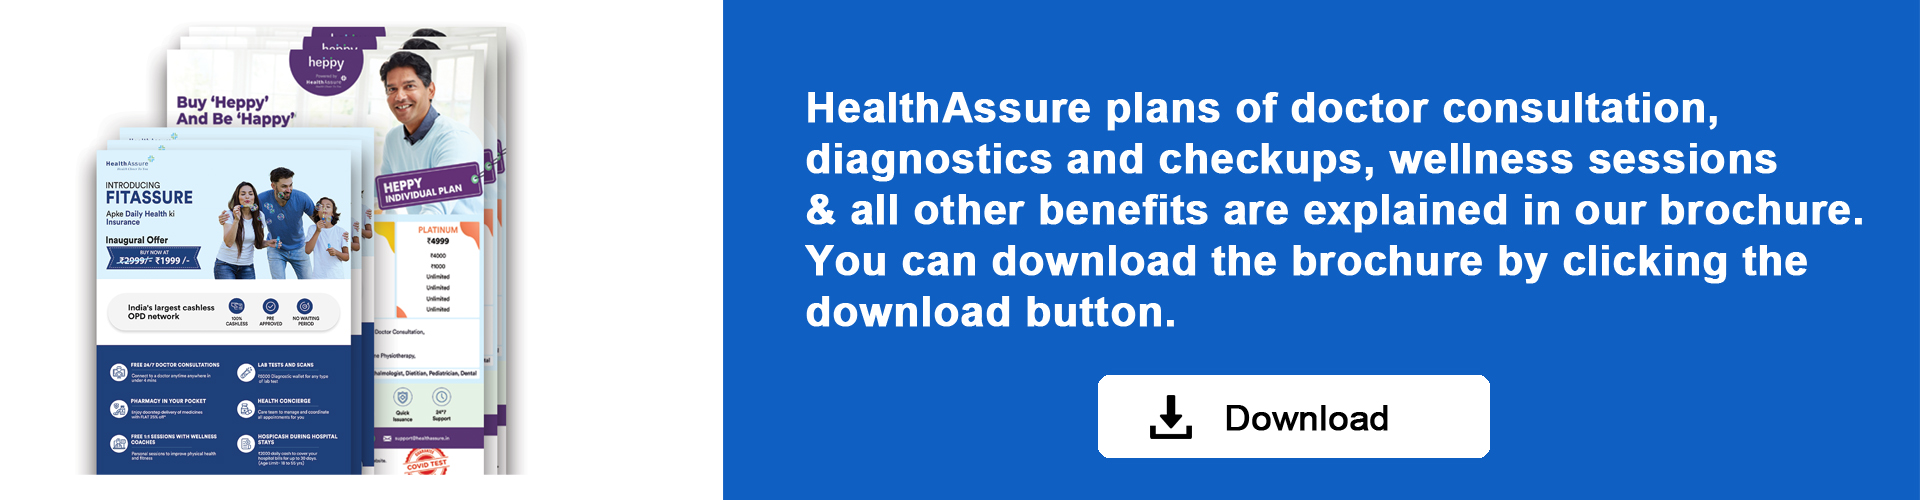
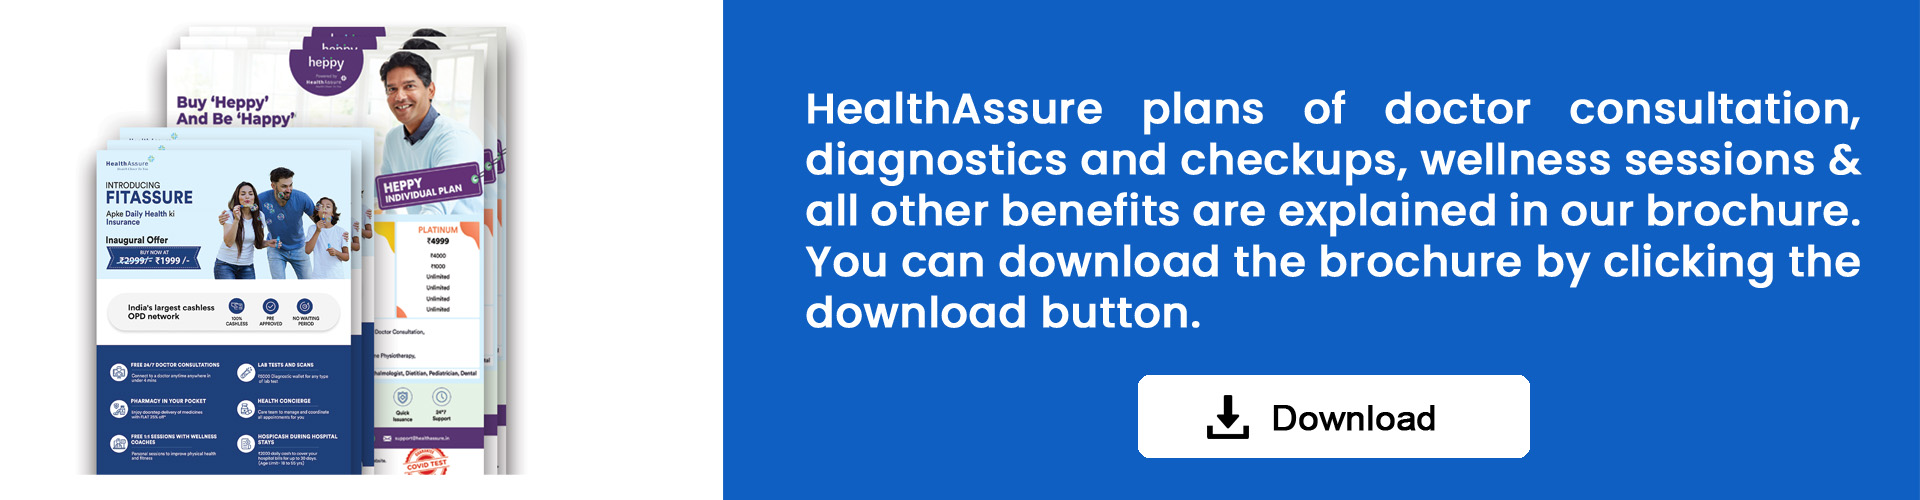
dsfbn  dsfjkldsf dsfkhljsfdnd

Changed region(s): [[0.4062, 0.18, 0.9688, 0.66], [0.5625, 0.75, 0.8125, 0.93]]

diff --git a/plans/opd.html b/plans/opd.html
@@ -561,8 +561,8 @@ selector { property:value; }
                  </div>
              </div>
   <div class="col-sm-12 col-md-6  col-lg-4 col-xl-8  pb-3 text-white" style="background-color:#0f5fc2;" >
-                  <p class="pt-5 px-2" style="font-size:20px;">Want to know more about our Retail OPD Products? </p>
-                <h2 class="head  mt-4 px-2 py-3 text-white"><span style="font-weight:600;border-radius:2px;" class="px-2">  Exclusive <span style="font-size:48px;font-family: arial; vertical-align: middle;">11+ </span> products tailored to suite your daily needs</span>  </h2>
+        <p class="pt-5 px-2" style="font-size:20px;">HealthAssure plans of doctor consultation, diagnostics and checkups, wellness sessions & all other benefits are explained in our brochure. You can download the brochure by clicking the download button. </p>
+                
 
 <div class="text-center">
     <a href="https://healthassure.in/plans/heppy-family-floater-plan.html" target="_blank"><button class="btn  btn-light px-5 btn-lg" style="padding-top:11px; padding-bottom:11px;"> Click here  </button></a>
